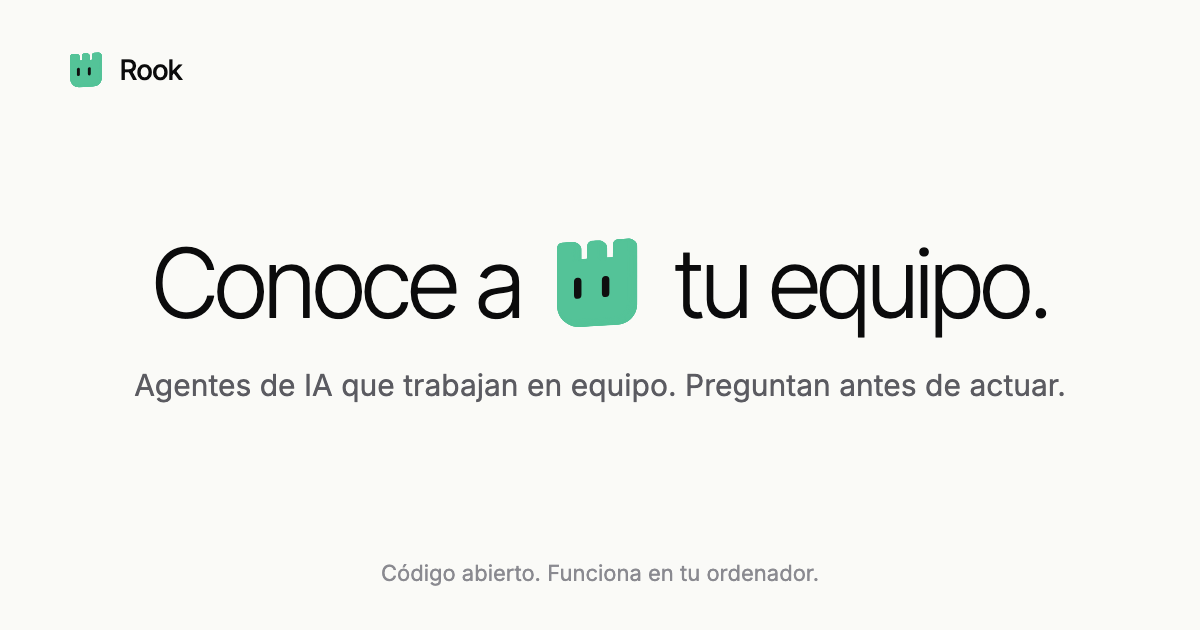
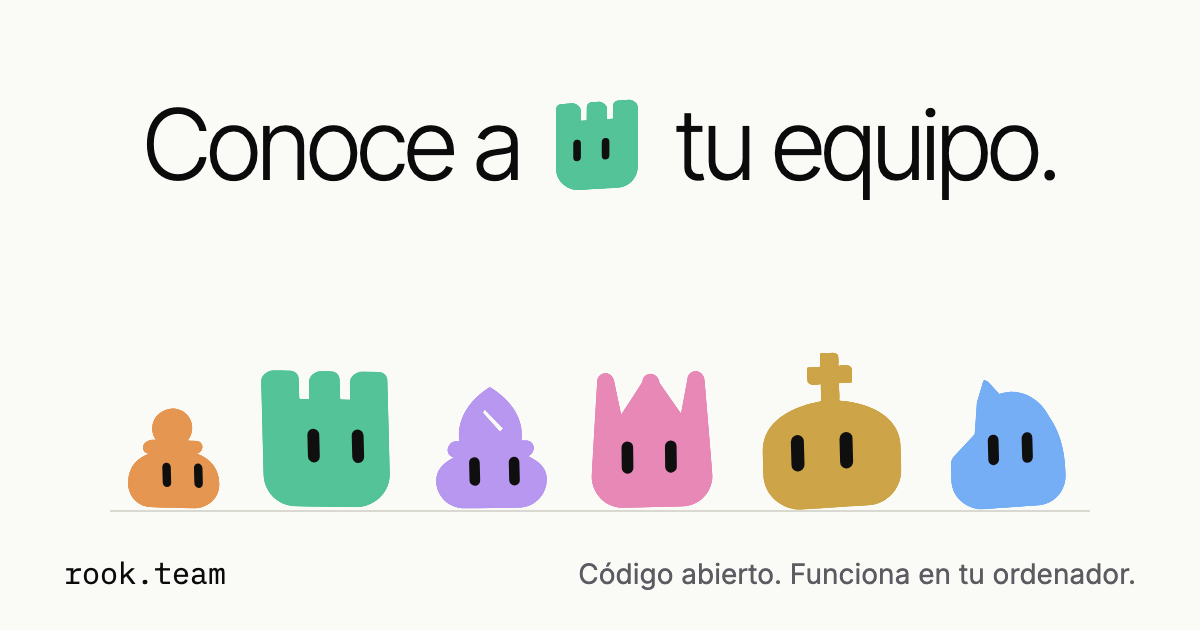
feat(www): link previews with the whole team, and social profile assets
The link preview was a headline on empty paper. It now stands the six
engine-drawn pieces on a hairline under the headline, with rook.team and the
short line in the footer, and the headline fits the central area so a cropped
preview still reads. The image URL carries a version so X, LinkedIn, WhatsApp
and Slack fetch the new image. Adds the generator for profile pictures and
banners (X, LinkedIn, Instagram).

diff --git a/apps/www/src/og-team.ts b/apps/www/src/og-team.ts
@@ -1,0 +1,38 @@
+import { CHESS_PIECES, ROOK_AVATAR, ROOK_EYE_COLOR } from "@corvo/core";
+import { renderAvatarSvg } from "open-bot-avatar";
+import { MASCOT_COLOR } from "./mascot";
+
+export type TeamPiece = "rook" | keyof typeof CHESS_PIECES;
+
+/** The set standing on the hairline, left to right: each with its color, width and the way it looks. */
+export const TEAM: { piece: TeamPiece; color: string; width: number }[] = [
+  { piece: "pawn", color: MASCOT_COLOR.laranja, width: 0.8 },
+  { piece: "rook", color: MASCOT_COLOR.menta, width: 1.1 },
+  { piece: "bishop", color: MASCOT_COLOR.violeta, width: 0.95 },
+  { piece: "queen", color: MASCOT_COLOR.rosa, width: 1.05 },
+  { piece: "king", color: MASCOT_COLOR.amarelo, width: 1.2 },
+  { piece: "knight", color: MASCOT_COLOR.azul, width: 1 },
+];
+
+/** One piece as the app's engine draws it: still, eyes open, looking where `gaze` says. */
+export function pieceSvg(
+  piece: TeamPiece,
+  color: string,
+  gaze?: { x: number; y: number },
+  eyeColor: string = ROOK_EYE_COLOR,
+): string {
+  const definition = piece === "rook" ? ROOK_AVATAR : CHESS_PIECES[piece];
+  return renderAvatarSvg(definition, { color, eyeColor, reducedMotion: gaze === undefined, gaze })
+    .replace(/ role="img" aria-label="[^"]*"/, ' aria-hidden="true"')
+    .replace(/<title>[^<]*<\/title>/, "");
+}
+
+/** Markup for the team: every piece looks up and toward the middle, so they seem to talk to each other. */
+export function teamMarkup(unit: number): string {
+  const mid = (TEAM.length - 1) / 2;
+  return TEAM.map(({ piece, color, width }, i) => {
+    const toward = Math.max(-1, Math.min(1, (mid - i) / 2));
+    const gaze = { x: piece === "knight" ? -0.9 : toward, y: -0.35 };
+    return `<span class="piece" style="width:${Math.round(unit * width)}px">${pieceSvg(piece, color, gaze)}</span>`;
+  }).join("");
+}

diff --git a/apps/www/src/site.ts b/apps/www/src/site.ts
@@ -1,5 +1,7 @@
 export const SITE_NAME = "Rook";
 export const SITE_URL = "https://rook.team";
+/** Bump when the social images change: X, LinkedIn, WhatsApp and Slack keep the old one cached by URL. */
+export const SOCIAL_IMAGE_VERSION = "2";
 export const SITE_DESCRIPTION =
   "Rook is an open source team of AI agents that lives in channels on your computer, remembers what matters and asks before it touches anything real.";
 
